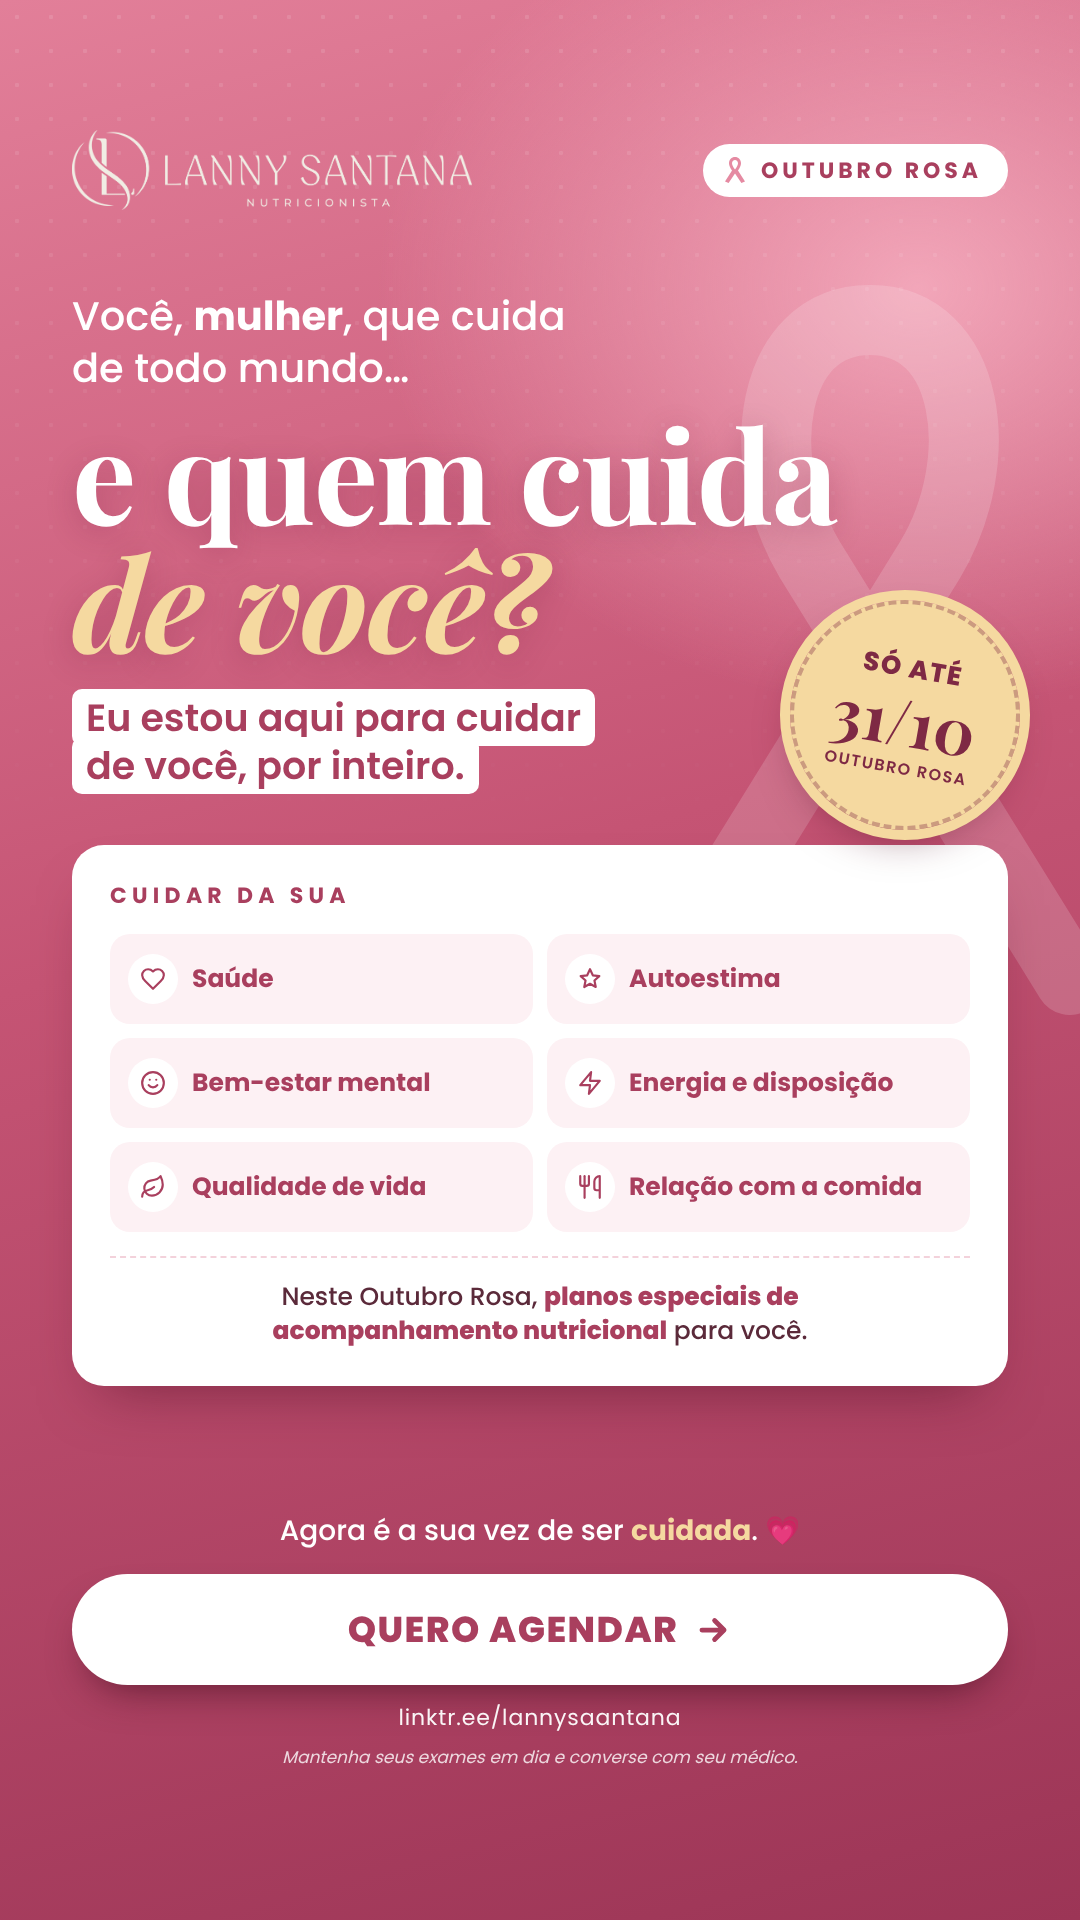
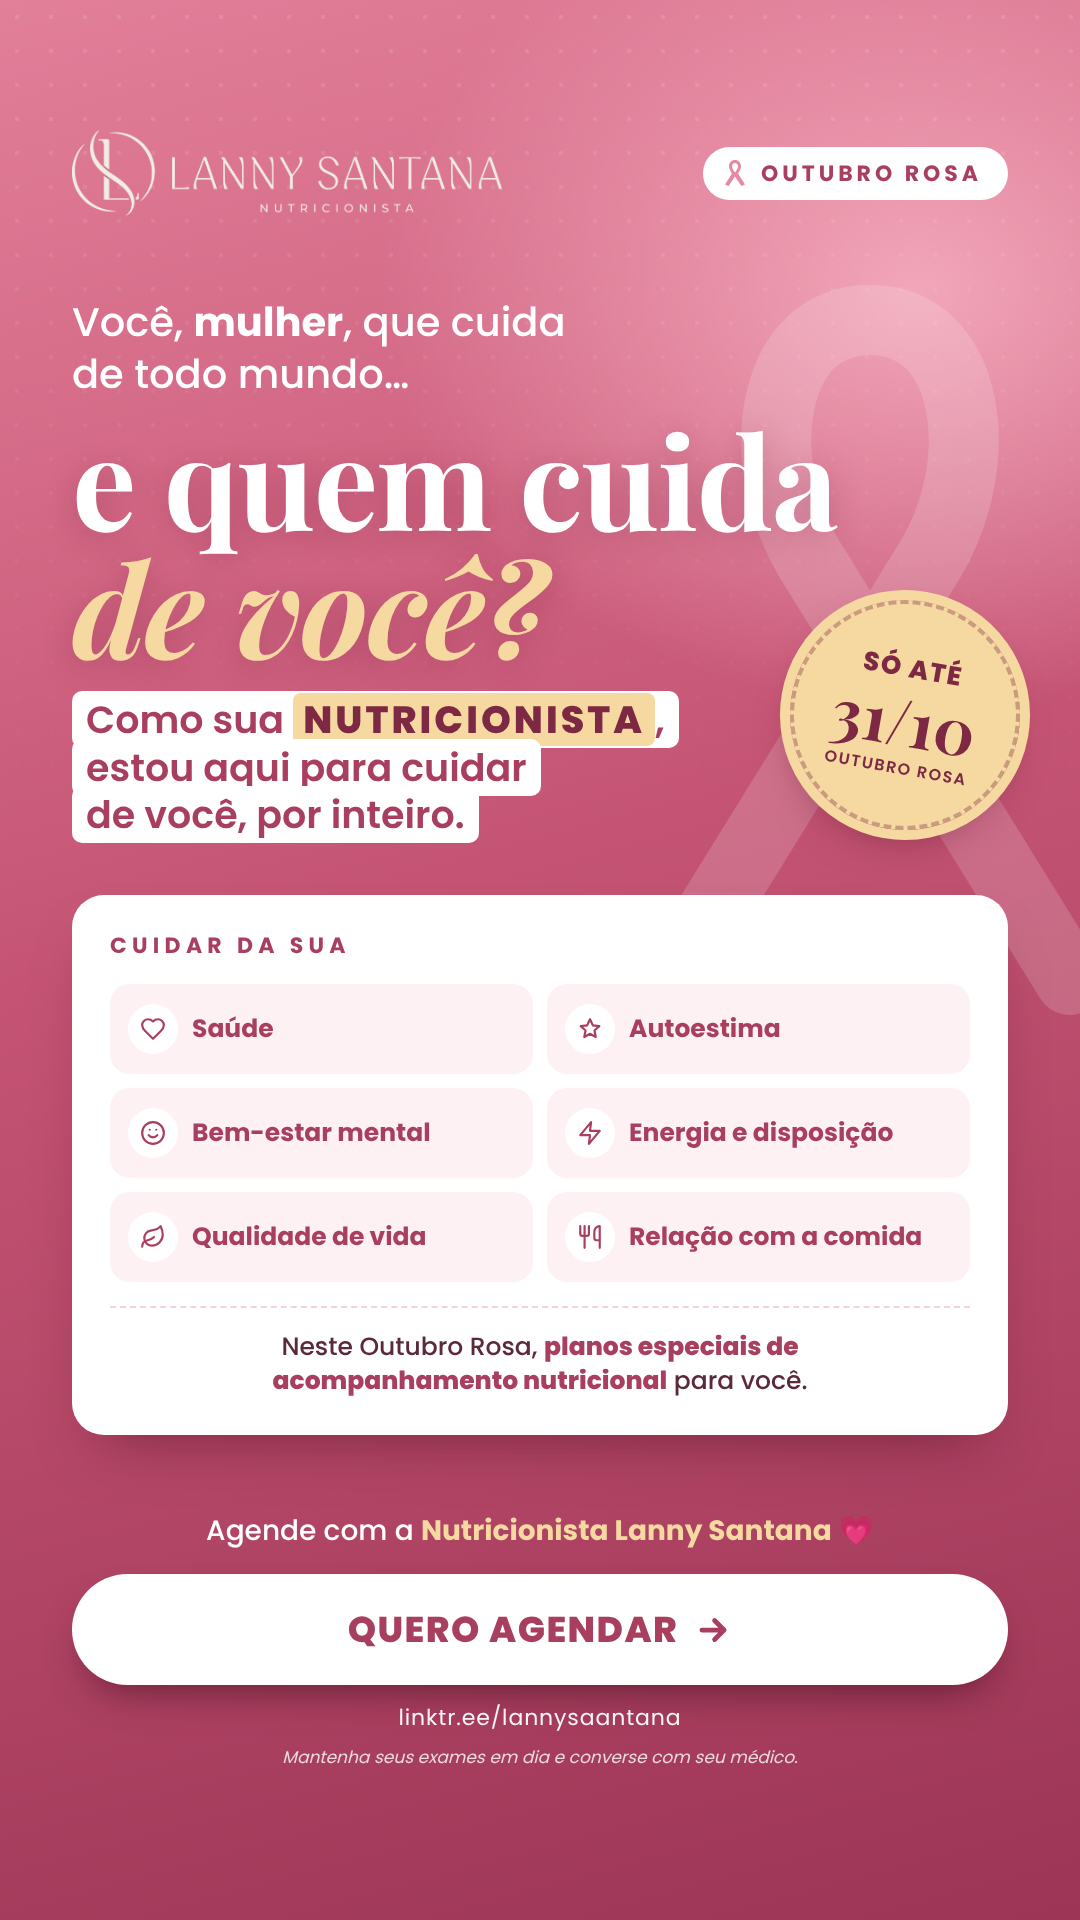
Emphasize 'nutricionista' in Outubro Rosa ad
Claude-Session: https://claude.ai/code/session_01MhAY4AV7jG7pqeT23HLWsH

diff --git a/marketing/beneficios-consulta/outubro-rosa-cuidado.html b/marketing/beneficios-consulta/outubro-rosa-cuidado.html
@@ -17,7 +17,7 @@
 
   header { position:relative; padding:130px 72px 0; }
   .top { display:flex; align-items:center; justify-content:space-between; }
-  .top img { width:400px; }
+  .top img { width:430px; }
   .tag { display:inline-flex; align-items:center; gap:10px; background:#fff; color:var(--pink-dark); border-radius:999px;
          padding:10px 26px 10px 16px; font-size:22px; font-weight:700; letter-spacing:.18em; }
   .tag svg { width:32px; height:32px; }
@@ -57,7 +57,7 @@
   .lead { margin-top:80px; font-size:40px; line-height:1.3; font-weight:500; }
   .lead b { font-weight:700; }
   h1 { margin-top:14px !important; }
-  .me { margin-top:30px; font-size:38px; line-height:1.25; font-weight:600; }
+  .me { margin-top:26px; font-size:38px; line-height:1.25; font-weight:600; }
   .me span { background:#fff; color:var(--pink-dark); padding:2px 14px; border-radius:10px; box-decoration-break:clone; -webkit-box-decoration-break:clone; }
   .pillars { display:grid; grid-template-columns:1fr 1fr; gap:14px; margin-top:22px; }
   .pl { display:flex; align-items:center; gap:14px; background:#FDF1F4; border-radius:20px; padding:20px 18px; font-size:25px; font-weight:700; color:var(--pink-dark); }
@@ -65,6 +65,7 @@
   .pl svg { width:26px; height:26px; stroke:var(--pink-dark); stroke-width:2; fill:none; stroke-linecap:round; stroke-linejoin:round; }
   .offer { margin-top:24px; padding-top:22px; border-top:2px dashed #F3D2DB; font-size:25px; line-height:1.35; color:#5b2a3a; font-weight:500; text-align:center; }
   .offer b { color:var(--pink-dark); font-weight:800; }
+  .nutri { font-weight:800; letter-spacing:.08em; color:var(--deep); background:var(--gold); padding:0 10px; border-radius:8px; }
 </style>
 </head>
 <body>
@@ -78,7 +79,7 @@
   </div>
   <p class="lead">Você, <b>mulher</b>, que cuida<br>de todo mundo…</p>
   <h1>e quem cuida<br><em>de você?</em></h1>
-  <div class="me"><span>Eu estou aqui para cuidar</span><br><span>de você, por inteiro.</span></div>
+  <div class="me"><span>Como sua <b class="nutri">NUTRICIONISTA</b>,</span><br><span>estou aqui para cuidar</span><br><span>de você, por inteiro.</span></div>
 </header>
 
 <div class="sticker"><div><b>SÓ ATÉ</b><strong>31/10</strong><small>OUTUBRO ROSA</small></div></div>
@@ -97,7 +98,7 @@
 </section>
 
 <section class="cta">
-  <p>Agora é a sua vez de ser <b>cuidada</b>. 💗</p>
+  <p>Agende com a <b>Nutricionista Lanny Santana</b> 💗</p>
   <div class="btn">QUERO AGENDAR <svg viewBox="0 0 24 24"><path d="M5 12h14M13 6l6 6-6 6"/></svg></div>
   <div class="link">linktr.ee/lannysaantana</div>
   <div class="note">Mantenha seus exames em dia e converse com seu médico.</div>
